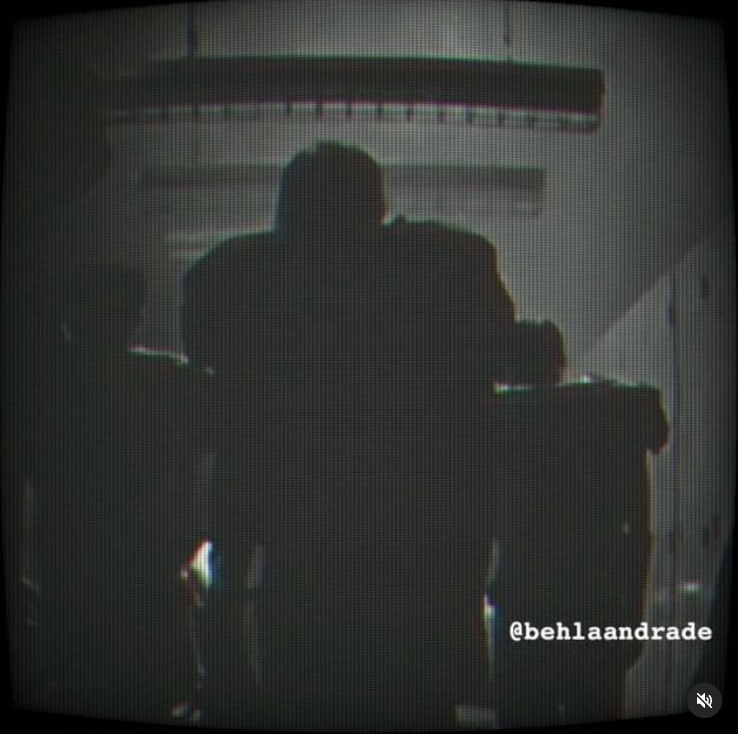
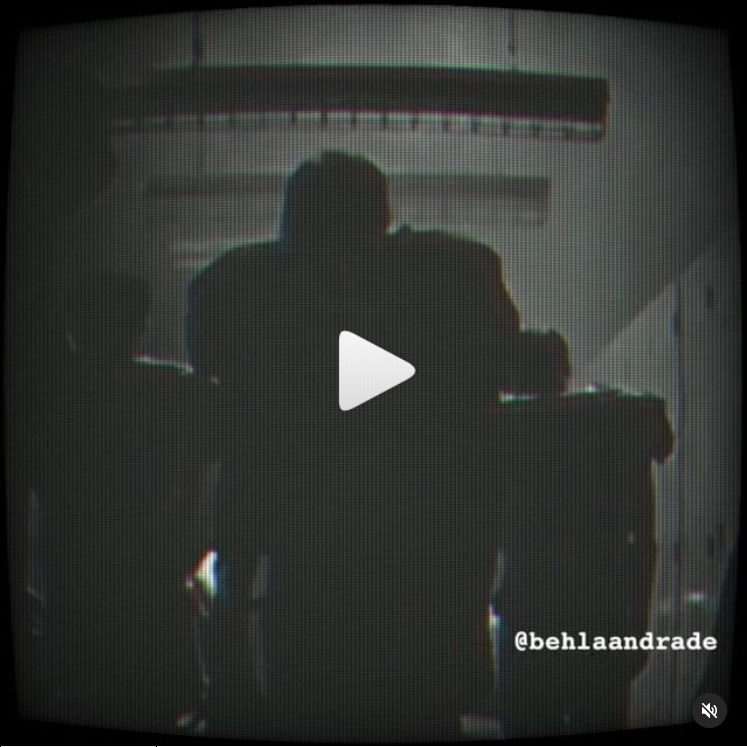
alterando arquivos novos

diff --git a/viewBook1.html b/viewBook1.html
@@ -10,28 +10,12 @@
     <link href="https://fonts.googleapis.com/css2?family=Inter:wght@400;900&display=swap" rel="stylesheet">
     <link rel="stylesheet" href="./stylesBooks.css">
 
-    <title>Personagem Cassandra Fleurie</title>
+    <title>Booktrailer 1 livro: "Depois de você"</title>
 </head>
 <body>
     <main>
-
-        <section>
-            <div>
-                <h2>Booktrailer 1</h2>
-                <!--BookTrailer 1-->
-                <ul class="Books">
-                    <li>
-                        <a>
-<blockquote class="instagram-media" data-instgrm-captioned data-instgrm-permalink="https://www.instagram.com/reel/Ch5eq7yqf99/?utm_source=ig_embed&amp;utm_campaign=loading" data-instgrm-version="14" style=" background:#FFF; border:0; border-radius:3px; box-shadow:0 0 1px 0 rgba(0,0,0,0.5),0 1px 10px 0 rgba(0,0,0,0.15); margin: 1px; max-width:540px; min-width:326px; padding:0; width:99.375%; width:-webkit-calc(100% - 2px); width:calc(100% - 2px);"><div style="padding:16px;"> <a href="https://www.instagram.com/reel/Ch5eq7yqf99/?utm_source=ig_embed&amp;utm_campaign=loading" style=" background:#FFFFFF; line-height:0; padding:0 0; text-align:center; text-decoration:none; width:100%;" target="_blank"> <div style=" display: flex; flex-direction: row; align-items: center;"> <div style="background-color: #F4F4F4; border-radius: 50%; flex-grow: 0; height: 40px; margin-right: 14px; width: 40px;"></div> <div style="display: flex; flex-direction: column; flex-grow: 1; justify-content: center;"> <div style=" background-color: #F4F4F4; border-radius: 4px; flex-grow: 0; height: 14px; margin-bottom: 6px; width: 100px;"></div> <div style=" background-color: #F4F4F4; border-radius: 4px; flex-grow: 0; height: 14px; width: 60px;"></div></div></div><div style="padding: 19% 0;"></div> <div style="display:block; height:50px; margin:0 auto 12px; width:50px;"><svg width="50px" height="50px" viewBox="0 0 60 60" version="1.1" xmlns="https://www.w3.org/2000/svg" xmlns:xlink="https://www.w3.org/1999/xlink"><g stroke="none" stroke-width="1" fill="none" fill-rule="evenodd"><g transform="translate(-511.000000, -20.000000)" fill="#000000"><g><path d="M556.869,30.41 C554.814,30.41 553.148,32.076 553.148,34.131 C553.148,36.186 554.814,37.852 556.869,37.852 C558.924,37.852 560.59,36.186 560.59,34.131 C560.59,32.076 558.924,30.41 556.869,30.41 M541,60.657 C535.114,60.657 530.342,55.887 530.342,50 C530.342,44.114 535.114,39.342 541,39.342 C546.887,39.342 551.658,44.114 551.658,50 C551.658,55.887 546.887,60.657 541,60.657 M541,33.886 C532.1,33.886 524.886,41.1 524.886,50 C524.886,58.899 532.1,66.113 541,66.113 C549.9,66.113 557.115,58.899 557.115,50 C557.115,41.1 549.9,33.886 541,33.886 M565.378,62.101 C565.244,65.022 564.756,66.606 564.346,67.663 C563.803,69.06 563.154,70.057 562.106,71.106 C561.058,72.155 560.06,72.803 558.662,73.347 C557.607,73.757 556.021,74.244 553.102,74.378 C549.944,74.521 548.997,74.552 541,74.552 C533.003,74.552 532.056,74.521 528.898,74.378 C525.979,74.244 524.393,73.757 523.338,73.347 C521.94,72.803 520.942,72.155 519.894,71.106 C518.846,70.057 518.197,69.06 517.654,67.663 C517.244,66.606 516.755,65.022 516.623,62.101 C516.479,58.943 516.448,57.996 516.448,50 C516.448,42.003 516.479,41.056 516.623,37.899 C516.755,34.978 517.244,33.391 517.654,32.338 C518.197,30.938 518.846,29.942 519.894,28.894 C520.942,27.846 521.94,27.196 523.338,26.654 C524.393,26.244 525.979,25.756 528.898,25.623 C532.057,25.479 533.004,25.448 541,25.448 C548.997,25.448 549.943,25.479 553.102,25.623 C556.021,25.756 557.607,26.244 558.662,26.654 C560.06,27.196 561.058,27.846 562.106,28.894 C563.154,29.942 563.803,30.938 564.346,32.338 C564.756,33.391 565.244,34.978 565.378,37.899 C565.522,41.056 565.552,42.003 565.552,50 C565.552,57.996 565.522,58.943 565.378,62.101 M570.82,37.631 C570.674,34.438 570.167,32.258 569.425,30.349 C568.659,28.377 567.633,26.702 565.965,25.035 C564.297,23.368 562.623,22.342 560.652,21.575 C558.743,20.834 556.562,20.326 553.369,20.18 C550.169,20.033 549.148,20 541,20 C532.853,20 531.831,20.033 528.631,20.18 C525.438,20.326 523.257,20.834 521.349,21.575 C519.376,22.342 517.703,23.368 516.035,25.035 C514.368,26.702 513.342,28.377 512.574,30.349 C511.834,32.258 511.326,34.438 511.181,37.631 C511.035,40.831 511,41.851 511,50 C511,58.147 511.035,59.17 511.181,62.369 C511.326,65.562 511.834,67.743 512.574,69.651 C513.342,71.625 514.368,73.296 516.035,74.965 C517.703,76.634 519.376,77.658 521.349,78.425 C523.257,79.167 525.438,79.673 528.631,79.82 C531.831,79.965 532.853,80.001 541,80.001 C549.148,80.001 550.169,79.965 553.369,79.82 C556.562,79.673 558.743,79.167 560.652,78.425 C562.623,77.658 564.297,76.634 565.965,74.965 C567.633,73.296 568.659,71.625 569.425,69.651 C570.167,67.743 570.674,65.562 570.82,62.369 C570.966,59.17 571,58.147 571,50 C571,41.851 570.966,40.831 570.82,37.631"></path></g></g></g></svg></div><div style="padding-top: 8px;"> <div style=" color:#3897f0; font-family:Arial,sans-serif; font-size:14px; font-style:normal; font-weight:550; line-height:18px;">Ver essa foto no Instagram</div></div><div style="padding: 12.5% 0;"></div> <div style="display: flex; flex-direction: row; margin-bottom: 14px; align-items: center;"><div> <div style="background-color: #F4F4F4; border-radius: 50%; height: 12.5px; width: 12.5px; transform: translateX(0px) translateY(7px);"></div> <div style="background-color: #F4F4F4; height: 12.5px; transform: rotate(-45deg) translateX(3px) translateY(1px); width: 12.5px; flex-grow: 0; margin-right: 14px; margin-left: 2px;"></div> <div style="background-color: #F4F4F4; border-radius: 50%; height: 12.5px; width: 12.5px; transform: translateX(9px) translateY(-18px);"></div></div><div style="margin-left: 8px;"> <div style=" background-color: #F4F4F4; border-radius: 50%; flex-grow: 0; height: 20px; width: 20px;"></div> <div style=" width: 0; height: 0; border-top: 2px solid transparent; border-left: 6px solid #f4f4f4; border-bottom: 2px solid transparent; transform: translateX(16px) translateY(-4px) rotate(30deg)"></div></div><div style="margin-left: auto;"> <div style=" width: 0px; border-top: 8px solid #F4F4F4; border-right: 8px solid transparent; transform: translateY(16px);"></div> <div style=" background-color: #F4F4F4; flex-grow: 0; height: 12px; width: 16px; transform: translateY(-4px);"></div> <div style=" width: 0; height: 0; border-top: 8px solid #F4F4F4; border-left: 8px solid transparent; transform: translateY(-4px) translateX(8px);"></div></div></div> <div style="display: flex; flex-direction: column; flex-grow: 1; justify-content: center; margin-bottom: 24px;"> <div style=" background-color: #F4F4F4; border-radius: 4px; flex-grow: 0; height: 14px; margin-bottom: 6px; width: 224px;"></div> <div style=" background-color: #F4F4F4; border-radius: 4px; flex-grow: 0; height: 14px; width: 144px;"></div></div></a><p style=" color:#c9c8cd; font-family:Arial,sans-serif; font-size:14px; line-height:17px; margin-bottom:0; margin-top:8px; overflow:hidden; padding:8px 0 7px; text-align:center; text-overflow:ellipsis; white-space:nowrap;"><a href="https://www.instagram.com/reel/Ch5eq7yqf99/?utm_source=ig_embed&amp;utm_campaign=loading" style=" color:#c9c8cd; font-family:Arial,sans-serif; font-size:14px; font-style:normal; font-weight:normal; line-height:17px; text-decoration:none;" target="_blank">Uma publicação compartilhada por Brenda Andrade Gati | Escritora Independente (@behlaandrade)</a></p></div></blockquote> <script async src="//www.instagram.com/embed.js"></script>
-                        </a>
-                    </li>
-                </ul>
-    
-            </div>
-        </section>
-    <div>
-    <img >
-    </div>
+ <iframe src="https://www.instagram.com/reel/Ch5eq7yqf99/?utm_source=ig_embed&amp;utm_campaign=loading" frameborder="0"
+ allowtransparency="true"></iframe>
 
 </main>
 </body>
